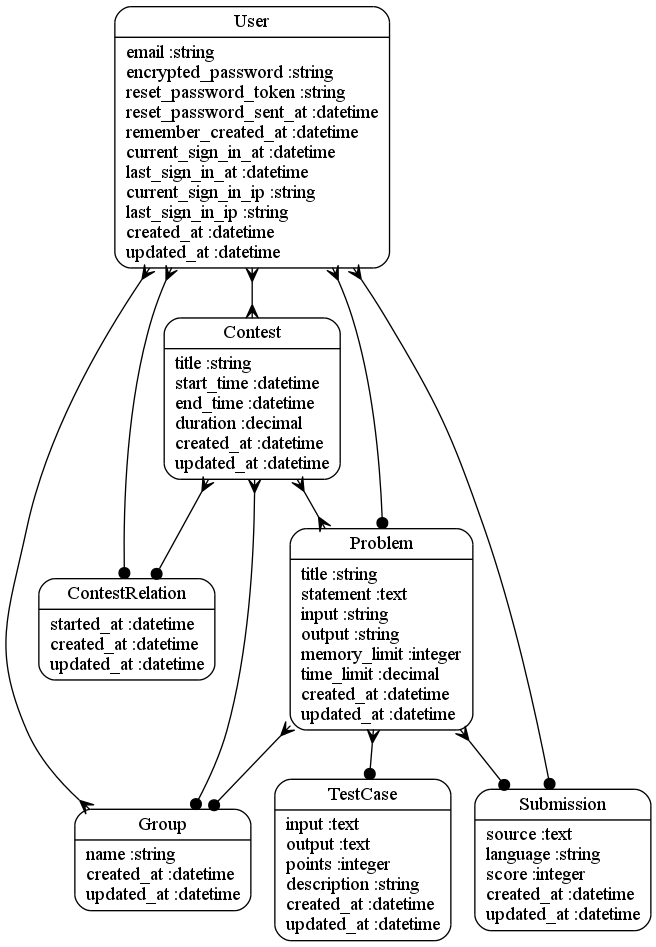
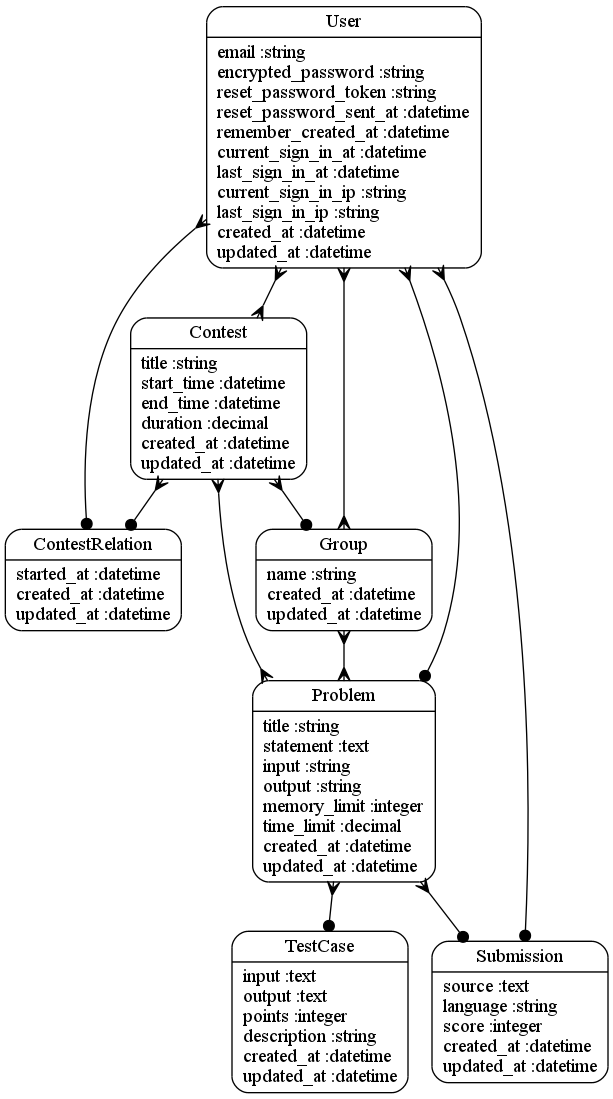
groups now have accessible problems

diff --git a/db/schema.rb b/db/schema.rb
@@ -10,7 +10,7 @@
 #
 # It's strongly recommended to check this file into your version control system.
 
-ActiveRecord::Schema.define(:version => 20110924035337) do
+ActiveRecord::Schema.define(:version => 20110925021620) do
 
   create_table "contest_relations", :force => true do |t|
     t.integer  "user_id"
@@ -39,6 +39,11 @@ ActiveRecord::Schema.define(:version => 20110924035337) do
     t.string   "name"
     t.datetime "created_at"
     t.datetime "updated_at"
+  end
+
+  create_table "groups_problems", :id => false, :force => true do |t|
+    t.integer "group_id"
+    t.integer "problem_id"
   end
 
   create_table "groups_users", :id => false, :force => true do |t|

diff --git a/app/controllers/problems_controller.rb b/app/controllers/problems_controller.rb
@@ -18,6 +18,7 @@ class ProblemsController < ApplicationController
     @problem = Problem.find(params[:id])
     #TODO: restrict to problems that current user owns
     @contests = Contest.all
+    @groups = Group.all
 
     respond_to do |format|
       format.html # show.html.erb

diff --git a/app/models/problem.rb b/app/models/problem.rb
@@ -3,7 +3,7 @@ class Problem < ActiveRecord::Base
   has_many :submissions
   has_and_belongs_to_many :contests 
   belongs_to :user
-  has_many :groups
+  has_and_belongs_to_many :groups
 
   #bit of a hack
   def get_score(user, from = DateTime.new(0), to = DateTime.now)

diff --git a/config/routes.rb b/config/routes.rb
@@ -19,8 +19,10 @@ NztrainV2::Application.routes.draw do
 
   resources :groups do
     member do
-      get 'add_user'
-      get 'remove_user'
+      put 'add_user'
+      put 'remove_user'
+      put 'add_problem'
+      put 'remove_problem'
     end
   end
 
